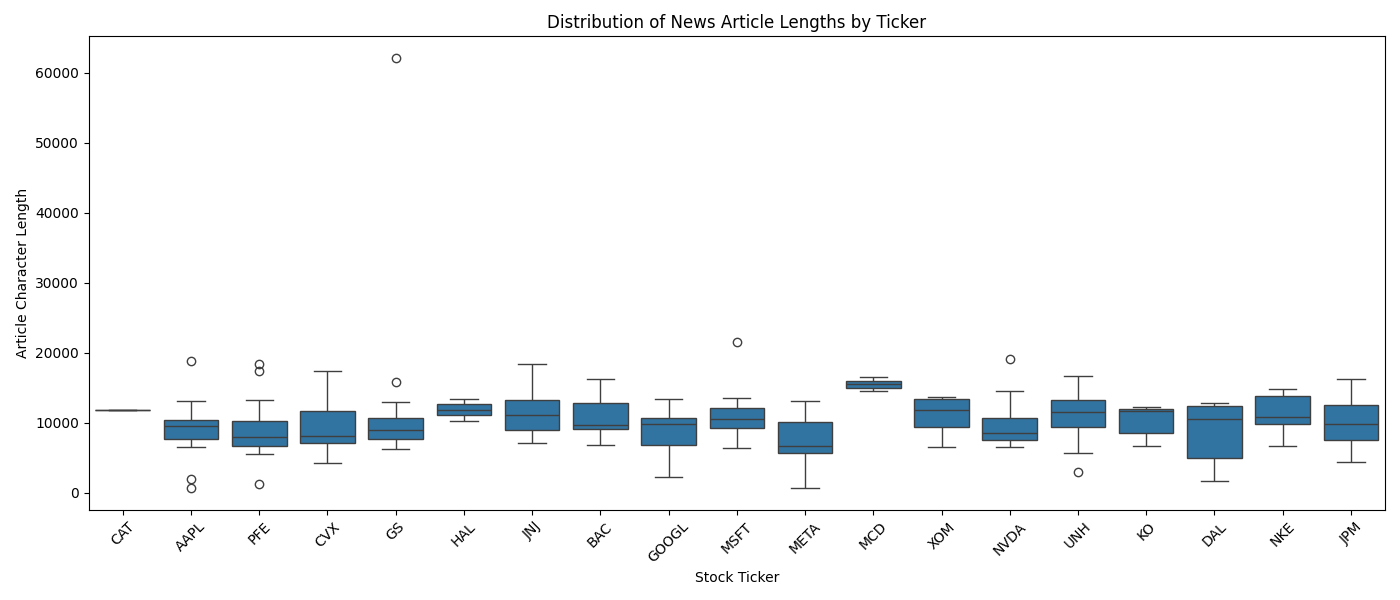
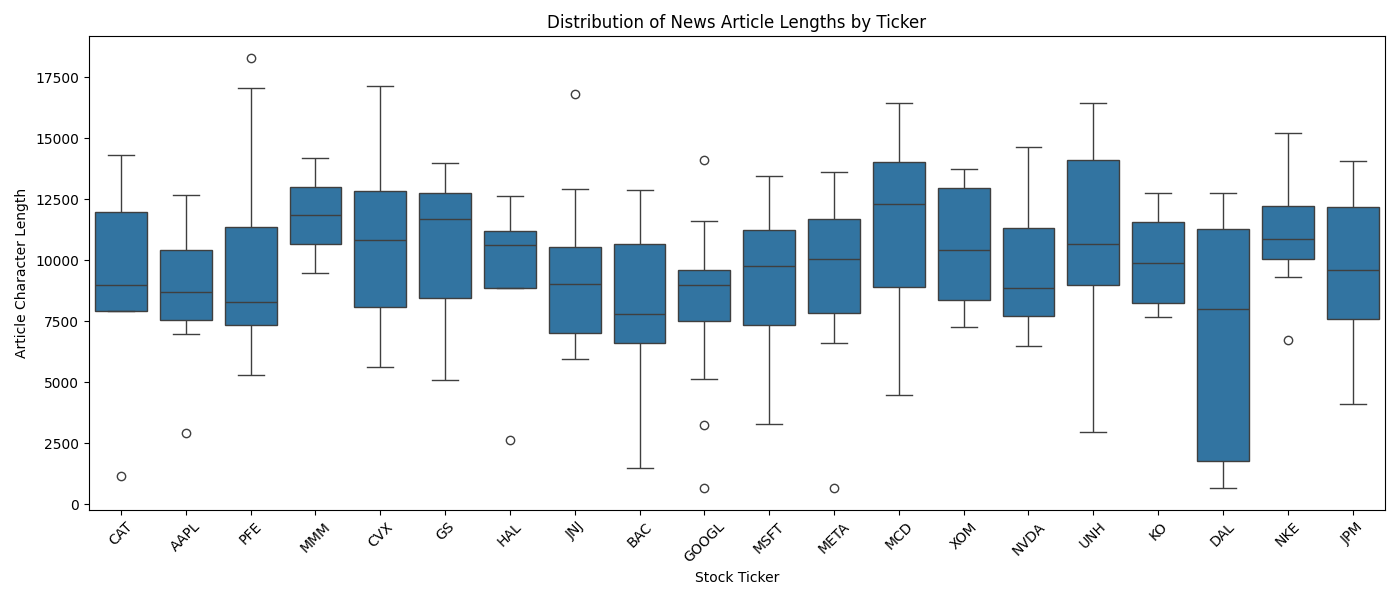
Done with assignment

diff --git a/HW1-Rahman-ShaikHaseebUr/T2/scriptBoxPlot.py b/HW1-Rahman-ShaikHaseebUr/T2/scriptBoxPlot.py
@@ -16,6 +16,7 @@ def analyze_news_articles(input_folder='stocknews', output_folder='.'):
             continue
 
         article_lengths = []
+        article_count = 0
 
         for file in os.listdir(ticker_path):
             if file.endswith('.txt'):
@@ -23,11 +24,13 @@ def analyze_news_articles(input_folder='stocknews', output_folder='.'):
                 with open(filepath, 'r', encoding='utf-8') as f:
                     content = f.read()
                     if 'Content:\n' in content:
-                        body = content.split('Content:\n')[-1]
-                        article_lengths.append(len(body.strip()))
+                        body = content.split('Content:\n')[-1].strip()
+                        length = len(body)
+                        if length > 0:
+                            article_lengths.append(length)
+                            article_count += 1
 
-        article_count = len(article_lengths)
-        if article_count:
+        if article_count > 0:
             mean_len = round(sum(article_lengths) / article_count, 2)
             std_len = round(pd.Series(article_lengths).std(), 2)
             std_len = 0.0 if math.isnan(std_len) else std_len
@@ -36,7 +39,7 @@ def analyze_news_articles(input_folder='stocknews', output_folder='.'):
                 'Ticker': ticker,
                 'News_Articles': article_count,
                 'Mean_Char_Length': mean_len,
-                'Std_Char_Length': std_len
+                'SD_Char_Length': std_len
             })
 
             for length in article_lengths:
@@ -46,20 +49,22 @@ def analyze_news_articles(input_folder='stocknews', output_folder='.'):
     summary_df = summary_df.sort_values('Ticker')
     summary_df.to_csv(os.path.join(output_folder, 'news_summary_table.csv'), index=False)
 
-    plot_df = pd.DataFrame(boxplot_data)
-    plt.figure(figsize=(14, 6))
-    sns.boxplot(data=plot_df, x='Ticker', y='Length')
-    plt.title('Distribution of News Article Lengths by Ticker')
-    plt.xlabel('Stock Ticker')
-    plt.ylabel('Article Character Length')
-    plt.xticks(rotation=45)
-    plt.tight_layout()
-    plot_path = os.path.join(output_folder, 'news_boxplot.png')
-    plt.savefig(plot_path)
-    plt.close()
-
+    if boxplot_data:
+        plot_df = pd.DataFrame(boxplot_data)
+        plt.figure(figsize=(14, 6))
+        sns.boxplot(data=plot_df, x='Ticker', y='Length')
+        plt.title('Distribution of News Article Lengths by Ticker')
+        plt.xlabel('Stock Ticker')
+        plt.ylabel('Article Character Length')
+        plt.xticks(rotation=45)
+        plt.tight_layout()
+        plot_path = os.path.join(output_folder, 'news_boxplot.png')
+        plt.savefig(plot_path)
+        plt.close()
+        print(f"[INFO] Boxplot image saved to: {plot_path}")
+    else:
+        print("[INFO] No valid content found for boxplot.")
     print(f"[INFO] Summary CSV saved to: {output_folder}/news_summary_table.csv")
-    print(f"[INFO] Boxplot image saved to: {output_folder}/news_boxplot.png")
 
 if __name__ == '__main__':
     analyze_news_articles()

diff --git a/HW1-Rahman-ShaikHaseebUr/T2/script.py b/HW1-Rahman-ShaikHaseebUr/T2/script.py
@@ -20,6 +20,13 @@ def fetch_news_for_one_stock(ticker_symbol, driver, within_days):
 
     print(f"[INFO] Processing news for {ticker_symbol} (last {within_days} days)")
 
+    irrelevant_phrases = {
+        "Oops, something went wrong",
+        "Tip: Try a valid symbol or a specific company name for relevant results",
+        "Sign in to access your portfolio",
+        "Try again."
+    }
+
     for entry in feed.entries:
         published = datetime(*entry.published_parsed[:6])
         if published < cutoff_date:
@@ -36,8 +43,13 @@ def fetch_news_for_one_stock(ticker_symbol, driver, within_days):
 
             soup = BeautifulSoup(driver.page_source, 'html.parser')
             paragraphs = soup.find_all('p')
-            content = '\n'.join([p.get_text() for p in paragraphs]).strip()
+            cleaned_lines = []
+            for p in paragraphs:
+                line = p.get_text(strip=True)
+                if line and line not in irrelevant_phrases:
+                    cleaned_lines.append(line)
 
+            content = '\n'.join(cleaned_lines).strip()
             if not content:
                 continue
 
